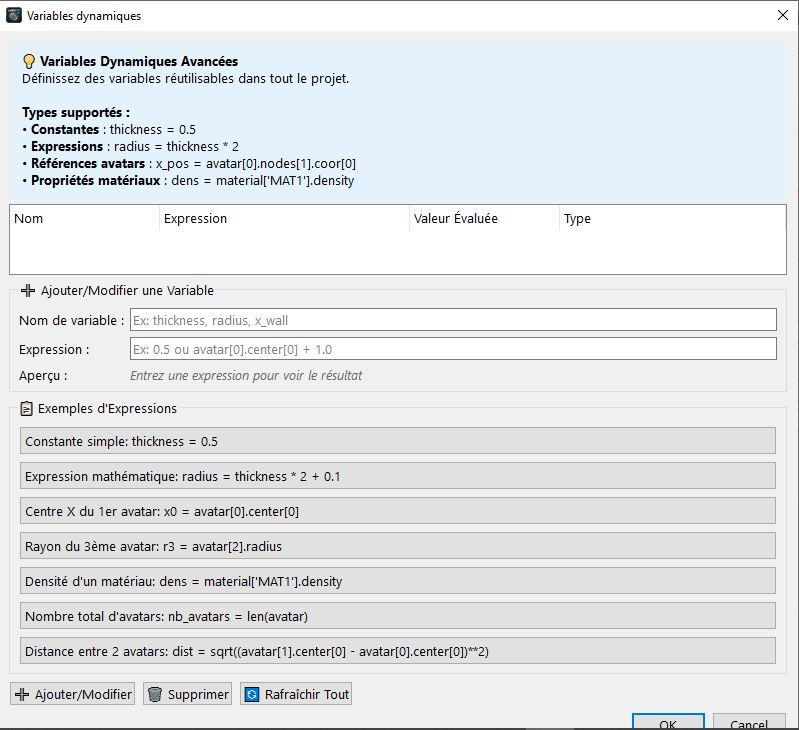
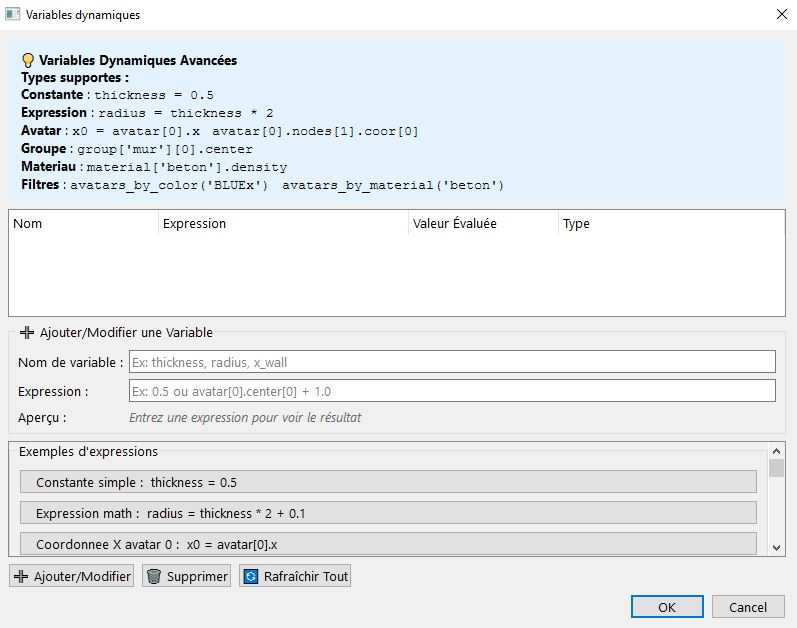
fix interface.md

Changed region(s): [[0.0, 0.0, 1.0, 1.0], [0.0, 0.0, 0.1807, 0.0303], [0.4818, 0.1815, 0.5119, 0.2118]]

diff --git a/docs/interface.md b/docs/interface.md
@@ -2,9 +2,9 @@
 
 LMGC90_GUI est une interface graphique moderne et intuitive conçue pour faciliter la création de vos modèles numériques avec le module **pre** (pré-processeur) de **LMGC90**.
 
-Il aussi possible de lancer vos calculs seulement sur les rigides.
+Il est tout à fait possible de lancer vos calculs sur LMGC90_GUI (module **chipy**).
 
-L'interface est organisée de manière claire et ergonomique pour accompagner l'utilisateur du début à la fin du processus de modélisation : création des éléments, conditions aux limites, post-traitement, puis génération des fichiers de simulation et enfin calculs.
+L'interface est organisée de manière claire et ergonomique pour accompagner l'utilisateur du début à la fin du processus de modélisation : création des éléments, conditions aux limites, post-traitement,  génération des fichiers et enfin calculs.
 
 Voici cette vidéo qui explique la vue d'ensemble des différentes parties de l'interface.
 
@@ -41,37 +41,67 @@ L'interface est divisée en **quatre zones principales** :
   - Sauvegarder (Ctrl+S)
   Sert à sauvegarder vos projets dans votre disque dur, cliquez sur le bouton "sauvegarder" de la barre d'outils, ou de cliquez sur le menu "Fichier"-> "Sauvegarder", ou avec le raccourci clavier "Ctrl+S",
   - Sauvegarder sous... (Ctrl+Shift+S)
+  - Quiter (Ctrl+Q)
+
+- **Assistants**
+
   - Assistant de configuration de projets (Ctrl+Shift+N)
   Est un assistant qui vous guidera pas à pas pour créer et configurer votre projet
 
   ![](captures/assistant_projet.JPG)
 
   - Assistant de granulométrie (Ctrl+Shift+G)
-  Est un assistant pour générer une granulométrie rapidement avec les routines liées à pylmgc90, idéal pour les dépôt qui ne dépasse pas 2000 avatars, sinon l'application prend beaucoup plus de temps afin de rafraichir l'UI, parfois plante complètement.
+  Est un assistant pour générer une granulométrie rapidement avec les routines liées à pylmgc90, idéal pour les dépôt qui ne dépasse pas 8000 avatars, sinon l'application prend beaucoup plus de temps afin de rafraichir l'UI, parfois plante complètement.
 
   ![](captures/assistant_granulo_pylmgc90.JPG)
 
   - Génération granulométrie numpy... (bêta)
-  Est une boite de dialogue qui génère et dépose des avatars à base de numpy sans passer par les routines pylmgc90, idéal pour la génération plus de 5000 avatars 
+  Est une boite de dialogue qui sert à générer et dépose des avatars à base de numpy sans passer par les routines pylmgc90, idéal pour la génération plus de 5000 avatars 
 
   ![](captures/assistant_granulo_numpy.JPG) 
+  
+  - Assistant de déformable.. (Ctrl+Shift+D)
+  Est un assistant qui vous guidera dans la création ou importation de vos éléments déformables
 
+  ![](captures/assistant_defor_page1.JPG)
 
-  - Quitter (Ctrl+Q)
+  - Assistant de maçonnerie (Ctrl+Shift+M)
+  Est un assistant spécialisé dans la maçonnerie, il va vous permettre de créer vos empilement de brick2D/brick3D sous différentes façons  
+
+  ![](captures/assistant_maçon_page1.JPG)
+
+**Important**  : Vous pourrez utiliser les assistants autant de fois que vous vouliez  
+
 - **Outils** :
-  - Préférences (Ctrl+,)
-  - Générer DATBOX
-  - Générer Script Python 
-  - Définir variables dynamiques
-- **Calcul**
-  - Paramètres de calcul
-  - Lancer calcul
-  - Générer Script Calcul 
-- **Onglets**
-- **Help** :
-  - À propos
 
-### Barre d'outils
+  - Générer DATBOX 
+  - Générer Script Python  
+  - Variables dynamiques (Ctrl+V) 
+    Cette boite de dialogue vous permet de créer des variables que vous pourriez utiliser afin d'automatiser saisies, il est aussi une fenêtre vers les propriétés de vos objets LMGC90, 
+    ![](captures/variables.JPG)
+
+  - Préférences (Ctrl+,) : [Préférences](#5-préférences)
+- **Calcul**
+  - Paramètres de calcul (Ctrl+F5)
+  - Lancer calcul (F5)
+  - Générer Script Calcul 
+  - Voir logs LMGC90 (F6)
+  - Journal de l'application (F7)  :
+
+  Cette boîte de dialogue sera en quelque sorte une brèche de LMGC90_GUI vers le code LMGC90 afin de voir certaines erreurs non gérées par l'application
+  
+  ![](captures/journal_app.JPG)
+
+- **Onglets**
+  - Ouvrir : [Onglets de création](#3-onglets-de-création-zone-centrale-supérieure)
+  - Fermer les autres 
+  - Fermer tous (sauf essentiels) 
+  - Onglets par défauts (Ctrl+Alt+D)
+- **Help** :
+  - À propos 
+  - Aide en ligne
+
+  ### Barre d'outils
 I'interface comporte une barre d'outils pour  les actions les plus fréquentes :
 - Nouveau projet
 - Ouvrir projet
@@ -117,7 +147,7 @@ Zone principale de travail avec des onglets dédiés à chaque étape de modéli
 - **Postpro** : commandes de sortie (énergie, suivi de corps, etc.)
 - **Visualisation** : Ouvre un onglet pour visualisation des avatars de vos modèles
 
-Chaque onglet contient les champs nécessaires et les boutons **Créer / Modifier / Supprimer**.
+Des raccourcis clavier sont disponibles pour les neuf premiers onglets.(Ctrl+ 1,2,3, etc)
 
 
 
@@ -144,7 +174,7 @@ Vous avez la possibilité de spécifier quatre choses :
 ![](captures/preferences.JPG)
 
 
-### 6. Barre d'état (en bas)
+### 6. Barre d'état 
 
 Affiche des messages d'informations sur l'état des opérations en cours.
 

diff --git a/docs/material_creation.md b/docs/material_creation.md
@@ -57,8 +57,7 @@ Par cas d'usage
 
 
 ## Astuces
-- Le champ Propriétés accèpte la syntaxe Python-like
-- Utilisez les variables dynamiques si définies (menu Outils -> définir variables dynamiques)
+- Utilisez les variables dynamiques si définies (menu Outils -> Variables dynamiques) ou racourci clavier (Ctrl+V)
 - Faites attention aux matériaux choisis pour les éléments rigides du code LMGC90
 
 ## Modification/suppression
@@ -68,10 +67,10 @@ Vous avez aussi la possibilité de modifier ou de supprimer un matériau, pour c
 
 ## Variables dynamiques 
 
-Il est tout à fait possible de créer des variables dynamiques ainsi que des expressions pour pouvoir les utilisés dans les champs des onglets afin d'automatiser vos valeurs.
+Il est tout à fait possible de créer des variables dynamiques ainsi que des expressions pour pouvoir les utilisés dans les champs des onglets de créations afin d'automatiser vos valeurs.
 Dans le menu "Outils"-> "Variables dynamiques", vous aurez cette boite de dialogue,
 
 ![](captures/variables.JPG)
 
 ### Exemples et expressions
-Si je clique sur le premier exemple (Constante simple thickness = 0.5), et je modifie le nom de la variable à "radius ", je lui attribut la valeur de 0.25, puis de cliquer sur le bouton "Ajouter ou modifier", puis sur "OK", vous aurez la possibilité de l'utiliser dans tous les champs.
+Si je clique sur le premier exemple (Constante simple thickness = 0.5), et je modifie le nom de la variable à "radius ", je lui attribut la valeur de 0.25, puis de cliquer sur le bouton "Ajouter ou modifier", puis sur "OK", vous aurez la possibilité de l'utiliser dans tous les champs de l'application LMGC90_GUI.

diff --git a/docs/overview.md b/docs/overview.md
@@ -1,6 +1,6 @@
 # Documentation LMGC90_GUI
 
-Bienvenue dans la documentation officielle de l’interface graphique LMGC90_GUI v0.3.0, qui n'est q'une brève introduction, 
+Bienvenue dans la documentation officielle de l’interface graphique LMGC90_GUI v0.3.5, qui n'est q'une brève introduction, 
 
 ## Navigation
 - [Interface](interface.md)
@@ -11,6 +11,7 @@ Bienvenue dans la documentation officielle de l’interface graphique LMGC90_GUI
 - [Avatar vide](empty_avatar.md)
 - [Templates](templates.md)
 - [Déformables](meshed.md)
+- [x][Maçonnerie](masonry.md)
 - [Boucles paramétriques](loops.md)
 - [Granulométrie](granulometry.md)
 - [Conditions aux limites](dof.md)

diff --git a/docs/calculs.md b/docs/calculs.md
@@ -22,7 +22,6 @@ L'onglet `calcul` gère la configuration et le lancement des simulations LMGC90.
 | `freq_display` | Fréquence affichage | `50` | Mise à jour affichage tous les N pas |
 
 
-
 ## Fichiers générés au lancement d'un calcul
 
 | Fichier | Emplacement | Description |
@@ -32,4 +31,7 @@ L'onglet `calcul` gère la configuration et le lancement des simulations LMGC90.
 | `OUTBOX/` | Dossier du projet | Résultats (créé par LMGC90) |
 | `Display/` | Dossier du projet | Fichiers d'affichage |
 | `Postpro/` | Dossier du projet | Fichiers post-traitement |
+
+
+
 

diff --git a/docs/project_wizard.md b/docs/project_wizard.md
@@ -49,4 +49,4 @@ Nous arriverons enfin au récapulatif de notre assistant, en cliquant sur le bou
 
 ![](captures/projet_assistant_recap.JPG)
 
-Une fois la boite de dialgue valider, tous vos éléments seront crées, après vous pouvez apporté des modifications.
+Une fois la boîte de dialogue validée, tous vos éléments seront créés, après vous pouvez apporter des modifications.
